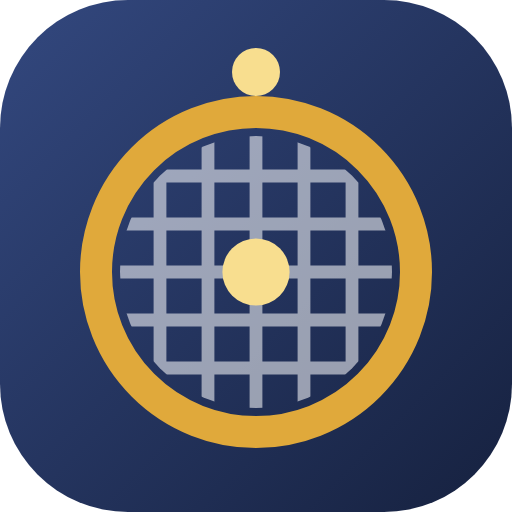
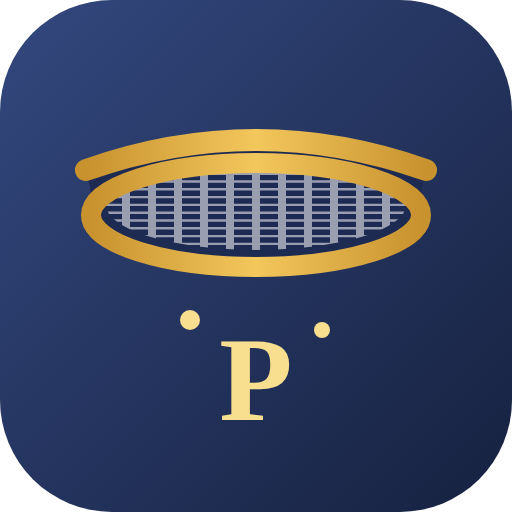
Paleta Menta como padrão e novo ícone (Peneira e gotas)
Claude-Session: https://claude.ai/code/session_01E4AjQ1VU7YhiyysCeEhCjd

diff --git a/index.html b/index.html
@@ -3,7 +3,7 @@
 <head>
 <meta charset="UTF-8">
 <meta name="viewport" content="width=device-width, initial-scale=1, viewport-fit=cover">
-<meta name="theme-color" content="#16213f">
+<meta name="theme-color" content="#0f5f58">
 <link rel="manifest" href="manifest.webmanifest">
 <meta name="apple-mobile-web-app-capable" content="yes">
 <meta name="mobile-web-app-capable" content="yes">
@@ -215,15 +215,8 @@
     <defs>
       <linearGradient id="pnG" x1="0" y1="0" x2="1" y2="1"><stop offset="0" stop-color="#33487f"/><stop offset="1" stop-color="#16213f"/></linearGradient>
       <clipPath id="pnClip"><circle cx="32" cy="34" r="17"/></clipPath>
-      <symbol id="pnMark" viewBox="0 0 64 64">
-        <rect width="64" height="64" rx="16" fill="url(#pnG)"/>
-        <circle cx="32" cy="34" r="20" fill="none" stroke="#e0a93b" stroke-width="4"/>
-        <g clip-path="url(#pnClip)" stroke="#ffffff" stroke-opacity=".55" stroke-width="1.6">
-          <path d="M14 22h36M14 28h36M14 34h36M14 40h36M14 46h36M20 14v40M26 14v40M32 14v40M38 14v40M44 14v40"/>
-        </g>
-        <circle cx="32" cy="34" r="4.2" fill="#f8de8f"/>
-        <circle cx="32" cy="9" r="3" fill="#f8de8f"/>
-      </symbol>
+      <linearGradient id="pn7n" x1="0" y1="0" x2="1" y2="1"><stop offset="0" stop-color="#33487f"/><stop offset="1" stop-color="#16213f"/></linearGradient><linearGradient id="pn7g" x1="0" y1="0" x2="1" y2="0"><stop offset="0" stop-color="#c8922f"/><stop offset=".5" stop-color="#f3c75c"/><stop offset="1" stop-color="#c8922f"/></linearGradient>
+      <symbol id="pnMark" viewBox="0 0 512 512"><rect width="512" height="512" rx="112" fill="url(#pn7n)"/><path d="M86 170 Q256 110 426 170 L410 240 Q256 300 102 240Z" fill="#1d2a52"/><clipPath id="pn7c"><circle cx="256" cy="205" r="150"/></clipPath><g transform="scale(1 .3) translate(0 478)" clip-path="url(#pn7c)" stroke="#fff" stroke-opacity="0.55" stroke-width="8"><path d="M106 -55h300M-4 55v300M106 -29h300M22 55v300M106 -3h300M48 55v300M106 23h300M74 55v300M106 49h300M100 55v300M106 75h300M126 55v300M106 101h300M152 55v300M106 127h300M178 55v300M106 153h300M204 55v300M106 179h300M230 55v300M106 205h300M256 55v300M106 231h300M282 55v300M106 257h300M308 55v300M106 283h300M334 55v300M106 309h300M360 55v300M106 335h300M386 55v300M106 361h300M412 55v300M106 387h300M438 55v300M106 413h300M464 55v300M106 439h300M490 55v300M106 465h300M516 55v300"/></g><path d="M86 170 Q256 110 426 170" fill="none" stroke="url(#pn7g)" stroke-width="22" stroke-linecap="round"/><ellipse cx="256" cy="215" rx="165" ry="52" fill="none" stroke="url(#pn7g)" stroke-width="20"/><text x="256" y="420" text-anchor="middle" font-family="Georgia,serif" font-size="120" font-weight="700" fill="#f8de8f">P</text><circle cx="190" cy="320" r="10" fill="#f8de8f"/><circle cx="322" cy="330" r="8" fill="#f8de8f"/></symbol>
     </defs>
   </svg>
 
@@ -640,11 +633,11 @@
   let tema="auto"; try{ tema=localStorage.getItem("peneira-tema")||"auto"; }catch(e){}
   const escuroAgora = () => tema==="noite" || (tema==="auto" && window.matchMedia && matchMedia("(prefers-color-scheme: dark)").matches);
   const PALETAS={"areia": ["Areia", "#2b3a67", "#4a5f9e", "#fbf7f0"], "branco": ["Branco", "#1e3a8a", "#3b5bdb", "#ffffff"], "ceu": ["Céu", "#1d63d8", "#4f9cf9", "#eef5ff"], "menta": ["Menta", "#0f5f58", "#16958a", "#f0f8f5"], "sol": ["Pôr do sol", "#1f2a4d", "#c2410c", "#fff6ef"]};
-  let paleta="areia"; try{ paleta=localStorage.getItem("peneira-paleta")||"areia"; }catch(e){}
-  if(!PALETAS[paleta]) paleta="areia";
+  let paleta="menta"; try{ paleta=localStorage.getItem("peneira-paleta-v2")||"menta"; }catch(e){}
+  if(!PALETAS[paleta]) paleta="menta";
   Object.entries(PALETAS).forEach(([k,[nome,a,b,bg]])=>{ const bt=el("button"); bt.type="button"; bt.dataset.p=k;
     const sw=el("i"); sw.style.background=`linear-gradient(135deg,${a} 0 55%,${b} 55% 80%,${bg} 80%)`; bt.appendChild(sw); bt.appendChild(document.createTextNode(nome));
-    bt.onclick=()=>{ paleta=k; try{localStorage.setItem("peneira-paleta",k);}catch(e){} if(escuroAgora()){ tema="dia"; try{localStorage.setItem("peneira-tema","dia");}catch(e){} } aplicaTema(); };
+    bt.onclick=()=>{ paleta=k; try{localStorage.setItem("peneira-paleta-v2",k);}catch(e){} if(escuroAgora()){ tema="dia"; try{localStorage.setItem("peneira-tema","dia");}catch(e){} } aplicaTema(); };
     $("paletas").appendChild(bt); });
   if(window.matchMedia){ try{ matchMedia("(prefers-color-scheme: dark)").addEventListener("change",()=>aplicaTema()); }catch(e){} }
   function aplicaTema(){ const r=$("app"); if(tema==="auto") r.removeAttribute("data-theme"); else r.setAttribute("data-theme",tema);

diff --git a/sw.js b/sw.js
@@ -1,6 +1,6 @@
 /* Service worker do Peneira: guarda o app para abrir offline.
-   Ao publicar uma nova versão, altere CACHE (ex.: peneira-v4) para forçar a atualização. */
-const CACHE = "peneira-v4";
+   Ao publicar uma nova versão, altere CACHE (ex.: peneira-v5) para forçar a atualização. */
+const CACHE = "peneira-v5";
 const FILES = ["./", "./index.html", "./manifest.webmanifest", "./icons/icon.svg", "./icons/favicon-32.png",
   "./icons/apple-touch-180.png", "./icons/icon-192.png", "./icons/icon-512.png", "./icons/icon-maskable-512.png"];
 
